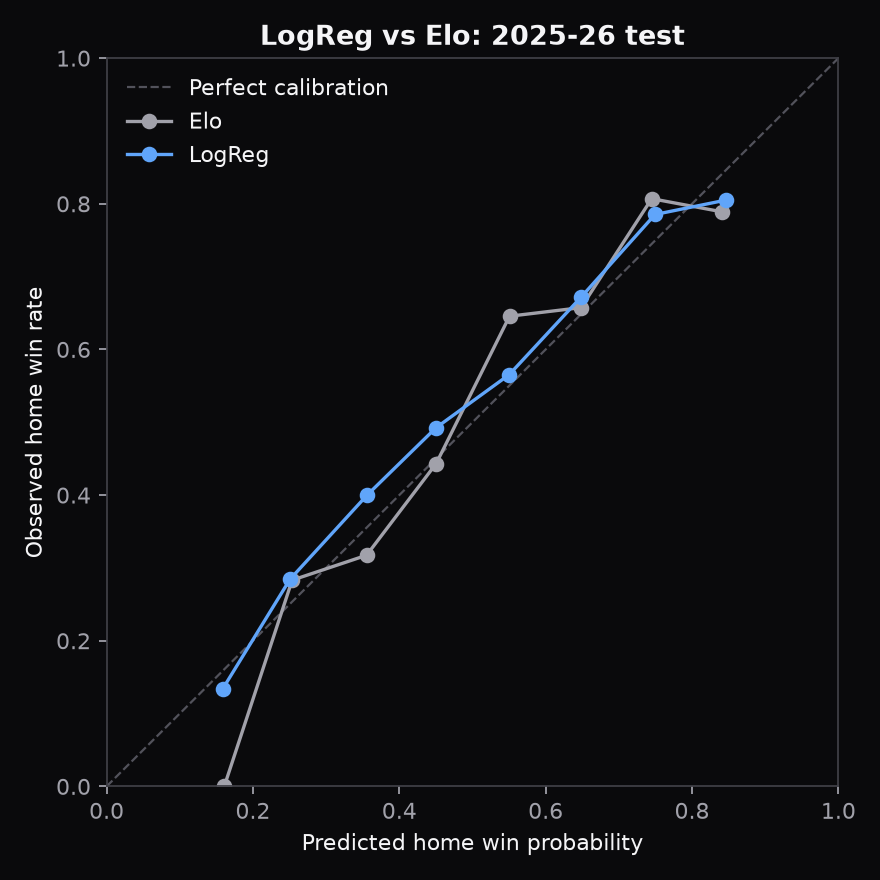
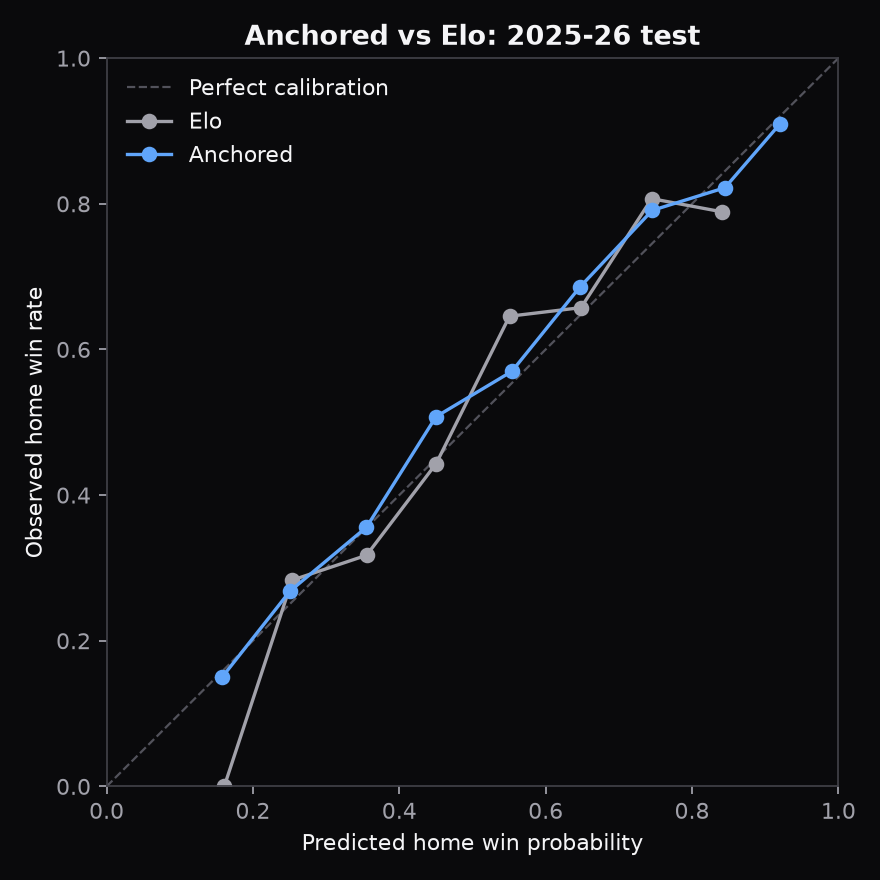
Model v3: one-time 2025-26 re-test and v3 backfill
Re-test (the one allowed for a new major version): anchored 0.5952 vs Elo 0.5978, paired
bootstrap CI -0.0104..+0.0051. v1's test report kept as test_2025-26_v1.*. Prod backfill
rewritten with game-v3-wf; docs updated.

diff --git a/docs/ML_PLAN.md b/docs/ML_PLAN.md
@@ -82,6 +82,8 @@ Store the human-readable copy for each feature in `web/lib/factor-copy.ts` (e.g.
 
 **Model v3 (Nov 2026, `tipoff-game` v3):** the v1/v2 champions lost to Elo on the 2025-26 test, and a study over six held-out seasons (`ml/reports/elo_gap_study.md`) showed their edge over Elo was small and lost in three of six seasons. Selection now uses **rolling validation**: each season 2019-20..2024-25 predicted by the candidate trained on all earlier seasons; lowest pooled log loss wins. New candidate **Elo-anchored**: `logit p = a · Elo log-odds + b + w · z` on `ANCHOR_FEATURES` (35: rest and travel, availability, lineup strength, last-10 form, venue records), L2 penalty on `w` only (λ = 100, chosen on the same rolling seasons from 100/300/1000/3000). Pooled rolling log loss: Elo 0.6287, LogReg 0.6228, LightGBM 0.6297, ensemble 0.6227, **anchored 0.6212 (beats Elo in 6 of 6 seasons) = champion, Platt calibration**. 2025-26 walk-forward (information only): Elo 0.5979 / 69.0%, v2 0.6024 / 67.0%, **v3 0.5950 / 67.9%**. Source: `ml/reports/model_selection_validation.md`, `ml/reports/backtest_2025-26.md`.
 
+**v3 re-test on 2025-26** (the one allowed re-test for a new major version, run after selection and deployment, Nov 2026; `ml/reports/test_2025-26.md`, v1's kept as `test_2025-26_v1.md`): Home team 0.6874 / 55.5%, Elo 0.5978 / 69.2%, LogReg 0.5987, LightGBM 0.6059, ensemble 0.5990, **anchored 0.5952 / 68.0% (Brier 0.2047, AUC 0.741)**. Paired-bootstrap log-loss gap vs Elo −0.0026, 95% CI [−0.0104, +0.0051]; predictions correlate at 0.950. Better than Elo, not conclusive on one season.
+
 ### Explanations
 - Every model variant is additive in log-odds, so explanations are exact. LogReg uses `coef × standardized value`. LightGBM uses its built-in TreeSHAP (`pred_contrib=True`), the same algorithm as `shap.TreeExplainer`, without the extra dependency. The ensemble mixes both with its weight. Platt scaling multiplies them by `a`. Tests check that contributions plus base equal the predicted log-odds.
 - Features are summed into 11 human factors defined in `shared/factors.json`, which `web/lib/factor-copy.ts` uses for copy. Each game stores its top 5 factors (≥ 0.5 points) in `game_predictions.factors` as `{factor, label, favors, pp, logit}`.

diff --git a/docs/ROADMAP.md b/docs/ROADMAP.md
@@ -263,12 +263,14 @@ held-out seasons its edge over Elo is small and it loses in three of them.
 - [x] Model selection on rolling validation (2019-20..2024-25) instead of one season
 - [x] Champion refit (`tipoff-game` v3, local registry) and 2025-26 walk-forward
 - [x] Deploy: code pushed (`f74dedb`, CI and Vercel green), then the v3 champion pushed to prod state (`game-v3`); the cloud job needs `features/lineup.py` before the v3 model, so keep that order
-- [ ] The one-time re-test on 2025-26 for the new major version (`--force-retest`), with the user's OK
+- [x] The one-time re-test on 2025-26 for the new major version (`--force-retest`, approved by the user): v3 0.5952 vs Elo 0.5978 (CI −0.0104..+0.0051); v1's report kept as `test_2025-26_v1.*`
+- [x] Backfill with v3 to prod (`game-v3-wf`, 1,456 games: all of 2025-26 and this season's games before live predictions began); live v2 picks are untouched (live beats backfill in `current_game_predictions`)
 - [ ] Later: official injury reports (worth up to about 0.004 more log loss)
 
 Notes:
 - Rolling validation (2019-20..2024-25), pooled log loss: Elo 0.6287, LogReg 0.6228, LightGBM 0.6297, ensemble 0.6227, Elo-anchored (λ = 100) 0.6212, better than Elo in all 6 seasons: champion v3 with Platt. 2025-26 walk-forward: v3 0.5950 vs Elo 0.5979 (v2: 0.6024); accuracy 67.9% vs Elo 69.0%.
 - Adding lineup strength also lifted the plain logistic regression from −0.0030 to −0.0059 vs Elo: it's the feature, not just the anchoring.
+- This season so far (226 graded games: 189 v3 backfill, 37 live v2): log loss 0.6048 vs Elo 0.6065, but accuracy 64.2% vs 69.5%; the log-loss gap's 95% CI is −0.021..+0.016. Many close calls landed on the wrong side; worth watching as live v3 games accumulate.
 - The study scripts in `ml/notebooks/elo_gap/` have relaxed ruff rules (math-style names); nothing imports them.
 
 ## Later ideas

diff --git a/ml/reports/test_2025-26.md b/ml/reports/test_2025-26.md
@@ -1,21 +1,12 @@
 # Final test: 2025-26
 
-All models refit on 2015-16..2024-25 (11,979 games) and evaluated once on every 2025-26 regular-season game (1,230). Configuration chosen on 2024-25 before this run; champion = **LogReg**. Calibrators fit out of time on 2024-25.
+All models refit on 2015-16..2024-25 (11,979 games) and evaluated once on every 2025-26 regular-season game (1,230). Configuration chosen on 2024-25 before this run; champion = **Anchored**. Calibrators fit out of time on 2024-25.
 
 | Model | Log loss ↓ | Brier ↓ | Accuracy ↑ | AUC ↑ | ECE ↓ |
 |---|---|---|---|---|---|
 | Home team | 0.6874 | 0.2472 | 55.5% | 0.5000 | 0.0110 |
 | Elo | 0.5978 | 0.2054 | 69.2% | 0.7379 | 0.0446 |
-| LogReg | 0.6022 | 0.2073 | 67.1% | 0.7330 | 0.0331 |
-| LightGBM | 0.6020 | 0.2071 | 68.1% | 0.7350 | 0.0299 |
-| Ensemble | 0.6018 | 0.2072 | 67.1% | 0.7337 | 0.0354 |
-
-## Notes (written after the run; nothing was re-selected)
-
-- Elo beats the chosen champion (LogReg) on this season. Per-game log-loss difference
-  (LogReg − Elo) on the walk-forward predictions: +0.0039, paired bootstrap 95% CI
-  [−0.0036, +0.0113], P(LogReg better) = 0.17. Their predictions correlate at 0.956.
-  LogReg was better in Oct–Nov and worse from December on. On 2024-25 validation LogReg led by
-  0.013. Taken together the two are statistically indistinguishable.
-- The champion stays LogReg, as selected on validation. Changing it because of this table
-  would make 2025-26 a tuning set. Elo is tracked as the challenger on live 2026-27 games.
+| LogReg | 0.5987 | 0.2060 | 68.2% | 0.7364 | 0.0267 |
+| LightGBM | 0.6059 | 0.2092 | 67.8% | 0.7258 | 0.0320 |
+| Ensemble | 0.5990 | 0.2061 | 68.2% | 0.7362 | 0.0283 |
+| Anchored | 0.5952 | 0.2047 | 68.0% | 0.7411 | 0.0284 |

diff --git a/ml/reports/test_2025-26_v1.md b/ml/reports/test_2025-26_v1.md
@@ -1,0 +1,21 @@
+# Final test: 2025-26
+
+All models refit on 2015-16..2024-25 (11,979 games) and evaluated once on every 2025-26 regular-season game (1,230). Configuration chosen on 2024-25 before this run; champion = **LogReg**. Calibrators fit out of time on 2024-25.
+
+| Model | Log loss ↓ | Brier ↓ | Accuracy ↑ | AUC ↑ | ECE ↓ |
+|---|---|---|---|---|---|
+| Home team | 0.6874 | 0.2472 | 55.5% | 0.5000 | 0.0110 |
+| Elo | 0.5978 | 0.2054 | 69.2% | 0.7379 | 0.0446 |
+| LogReg | 0.6022 | 0.2073 | 67.1% | 0.7330 | 0.0331 |
+| LightGBM | 0.6020 | 0.2071 | 68.1% | 0.7350 | 0.0299 |
+| Ensemble | 0.6018 | 0.2072 | 67.1% | 0.7337 | 0.0354 |
+
+## Notes (written after the run; nothing was re-selected)
+
+- Elo beats the chosen champion (LogReg) on this season. Per-game log-loss difference
+  (LogReg − Elo) on the walk-forward predictions: +0.0039, paired bootstrap 95% CI
+  [−0.0036, +0.0113], P(LogReg better) = 0.17. Their predictions correlate at 0.956.
+  LogReg was better in Oct–Nov and worse from December on. On 2024-25 validation LogReg led by
+  0.013. Taken together the two are statistically indistinguishable.
+- The champion stays LogReg, as selected on validation. Changing it because of this table
+  would make 2025-26 a tuning set. Elo is tracked as the challenger on live 2026-27 games.
